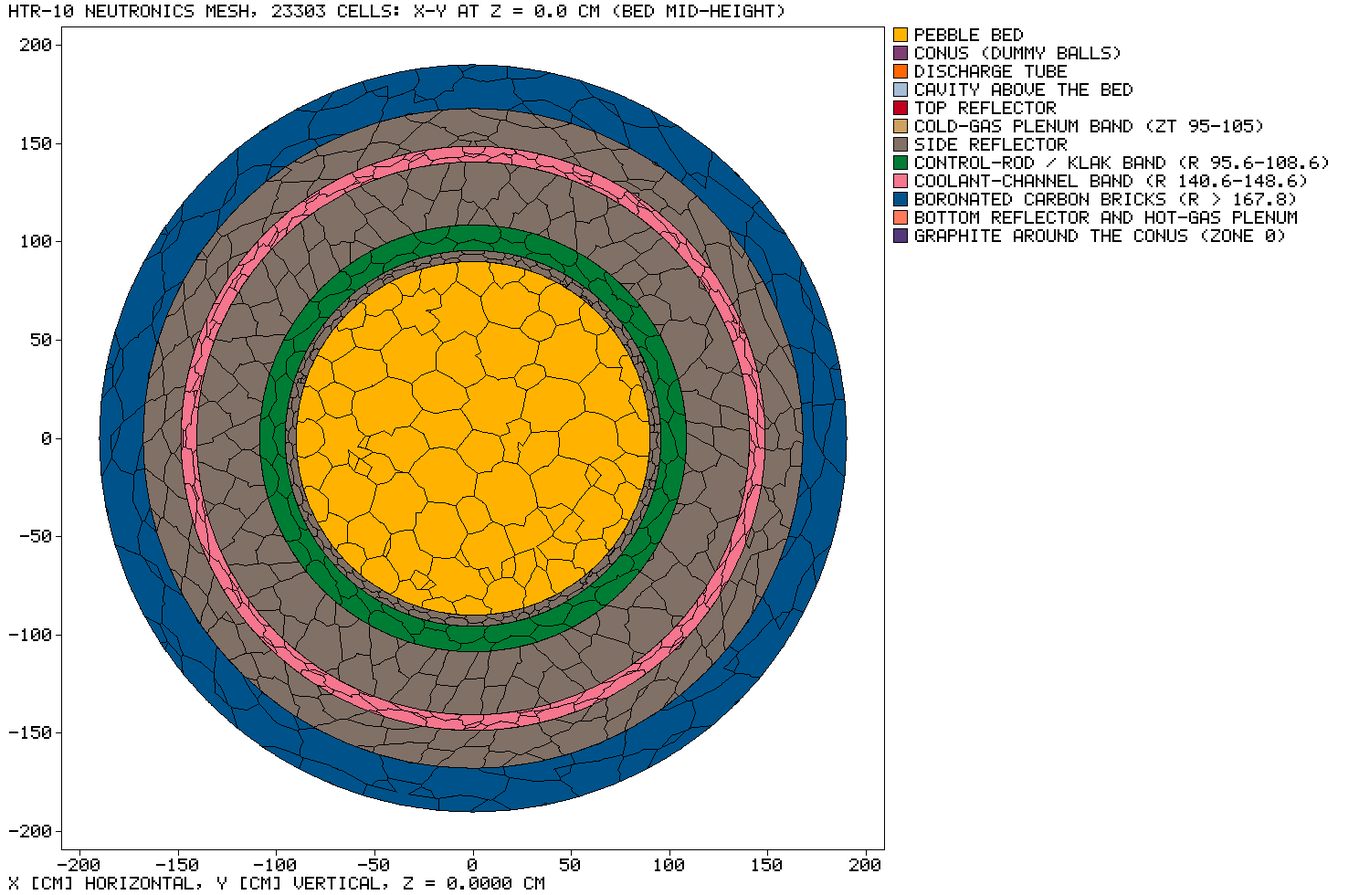
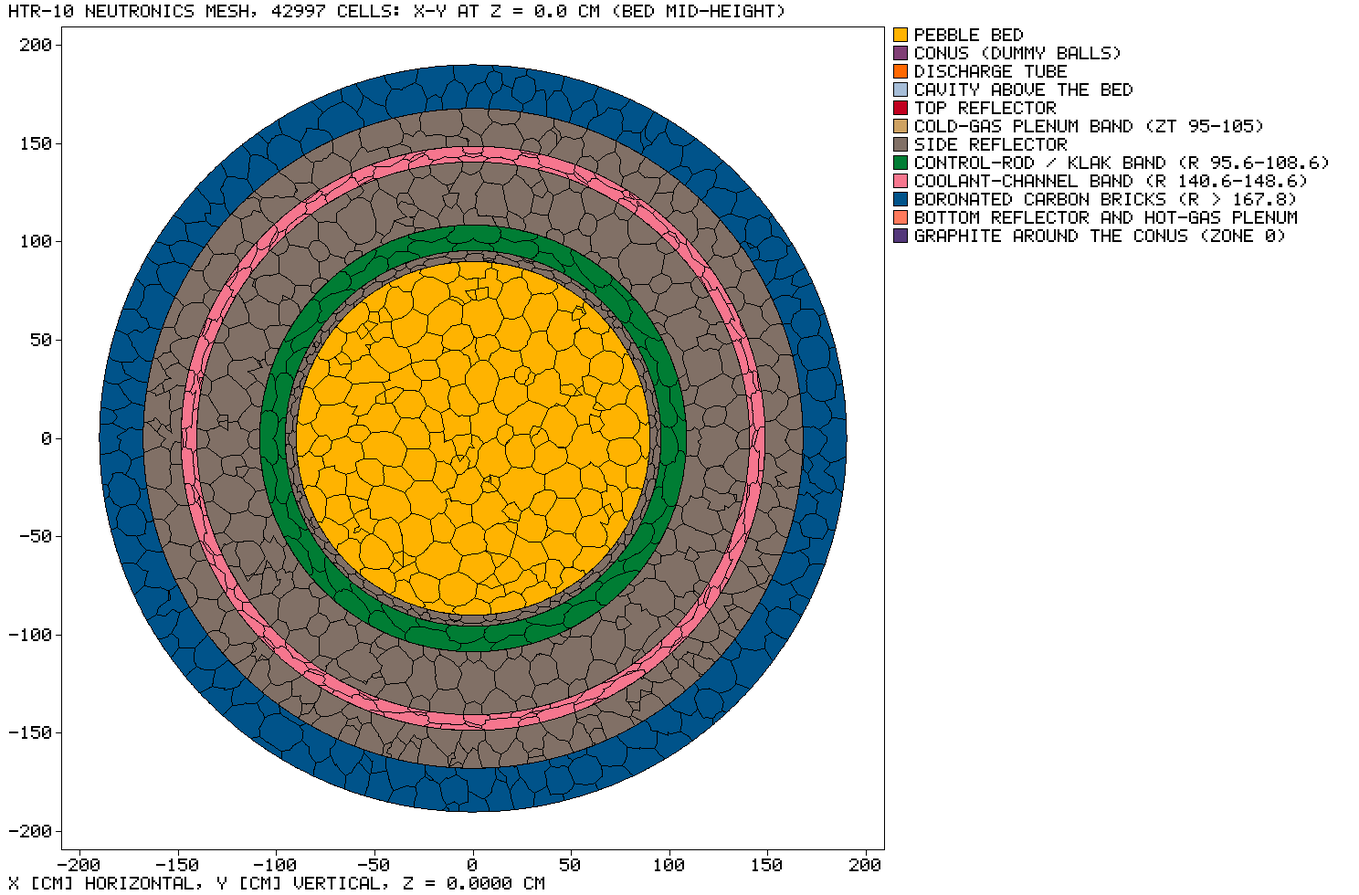
V&V Step 7: re-measured at the 20 cm neutronics default (gh:#1862)
Neutronics 42 997 cells, -0.02 % (worst region -0.14 %), 75.3 deg; run
1 m 52 s. AMI pairs at 20 cm: two flat pairs at round-off, curved mean
sums up to 1.0004, thin bands down to 0.9955; side areas within 2.0e-3.
30 cm values struck. Images, CSV and build notes replaced.

Claude-Session: https://claude.ai/code/session_01MuN674Wnq45CwGurhQFz6G

diff --git a/crates/dhoby-ghaut/verification_and_validation/workbench_steps_7_8/mesh_notes_ami_2026-11-27.md b/crates/dhoby-ghaut/verification_and_validation/workbench_steps_7_8/mesh_notes_ami_2026-11-27.md
@@ -1,89 +1,89 @@
 ## Neutronics
 
-- pebble_bed: TetGen tetrahedra with region attributes (1796 tetrahedra), each region dualled separately and stitched: 0 interface faces
-- pebble_bed: TetGen -pq1.414/3.5a0.0031819805153394634A
-- pebble_bed: snapped 556 surface points radially onto the true surface of revolution (32-facet input), after morphing 4049 points within 30.0 cm of a cylinder
-- pebble_bed: snapped 50 rim points (edges between two patches) onto their rings; split 0 rim chords to half a facet
-- pebble_bed: 442 cells
-- conus: TetGen tetrahedra with region attributes (1862 tetrahedra), each region dualled separately and stitched: 0 interface faces
-- conus: TetGen -pq1.414/3.5a0.0031819805153394634A
-- conus: snapped 1493 surface points radially onto the true surface of revolution (32-facet input), after morphing 0 points within 30.0 cm of a cylinder
+- pebble_bed: TetGen tetrahedra with region attributes (5970 tetrahedra), each region dualled separately and stitched: 0 interface faces
+- pebble_bed: TetGen -pq1.414/3.5a0.0009428090415820635A
+- pebble_bed: snapped 1034 surface points radially onto the true surface of revolution (32-facet input), after morphing 8525 points within 20.0 cm of a cylinder
+- pebble_bed: snapped 57 rim points (edges between two patches) onto their rings; split 0 rim chords to half a facet
+- pebble_bed: 1247 cells
+- conus: TetGen tetrahedra with region attributes (1986 tetrahedra), each region dualled separately and stitched: 0 interface faces
+- conus: TetGen -pq1.414/3.5a0.0009428090415820635A
+- conus: snapped 1458 surface points radially onto the true surface of revolution (32-facet input), after morphing 0 points within 20.0 cm of a cylinder
 - conus: snapped 43 rim points (edges between two patches) onto their rings; split 0 rim chords to half a facet
-- conus: 558 cells
-- discharge_tube: TetGen tetrahedra with region attributes (5978 tetrahedra), each region dualled separately and stitched: 0 interface faces
-- discharge_tube: TetGen -pq1.414/3.5a0.0031819805153394634A
-- discharge_tube: snapped 3102 surface points radially onto the true surface of revolution (32-facet input), after morphing 21516 points within 30.0 cm of a cylinder
+- conus: 587 cells
+- discharge_tube: TetGen tetrahedra with region attributes (6029 tetrahedra), each region dualled separately and stitched: 0 interface faces
+- discharge_tube: TetGen -pq1.414/3.5a0.0009428090415820635A
+- discharge_tube: snapped 3113 surface points radially onto the true surface of revolution (32-facet input), after morphing 21584 points within 20.0 cm of a cylinder
 - discharge_tube: snapped 26 rim points (edges between two patches) onto their rings; split 0 rim chords to half a facet
-- discharge_tube: 1575 cells
-- core_cavity: TetGen tetrahedra with region attributes (1486 tetrahedra), each region dualled separately and stitched: 0 interface faces
-- core_cavity: TetGen -pq1.414/3.5a0.0031819805153394634A
-- core_cavity: snapped 467 surface points radially onto the true surface of revolution (32-facet input), after morphing 3380 points within 30.0 cm of a cylinder
-- core_cavity: snapped 50 rim points (edges between two patches) onto their rings; split 0 rim chords to half a facet
-- core_cavity: 374 cells
-- top_reflector: TetGen tetrahedra with region attributes (4775 tetrahedra), each region dualled separately and stitched: 0 interface faces
-- top_reflector: TetGen -pq1.414/3.5a0.0031819805153394634A
-- top_reflector: snapped 1092 surface points radially onto the true surface of revolution (32-facet input), after morphing 9995 points within 30.0 cm of a cylinder
-- top_reflector: snapped 228 rim points (edges between two patches) onto their rings; split 0 rim chords to half a facet
-- top_reflector: 1249 cells
+- discharge_tube: 1571 cells
+- core_cavity: TetGen tetrahedra with region attributes (4751 tetrahedra), each region dualled separately and stitched: 0 interface faces
+- core_cavity: TetGen -pq1.414/3.5a0.0009428090415820635A
+- core_cavity: snapped 914 surface points radially onto the true surface of revolution (32-facet input), after morphing 7159 points within 20.0 cm of a cylinder
+- core_cavity: snapped 51 rim points (edges between two patches) onto their rings; split 0 rim chords to half a facet
+- core_cavity: 1040 cells
+- top_reflector: TetGen tetrahedra with region attributes (15982 tetrahedra), each region dualled separately and stitched: 0 interface faces
+- top_reflector: TetGen -pq1.414/3.5a0.0009428090415820635A
+- top_reflector: snapped 2641 surface points radially onto the true surface of revolution (32-facet input), after morphing 23180 points within 20.0 cm of a cylinder
+- top_reflector: snapped 274 rim points (edges between two patches) onto their rings; split 0 rim chords to half a facet
+- top_reflector: 3554 cells
 - cold_gas_plenum: TetGen tetrahedra with region attributes (2405 tetrahedra), each region dualled separately and stitched: 0 interface faces
-- cold_gas_plenum: TetGen -pq1.414/3.5a0.0031819805153394634A
-- cold_gas_plenum: snapped 218 surface points radially onto the true surface of revolution (32-facet input), after morphing 4020 points within 30.0 cm of a cylinder
+- cold_gas_plenum: TetGen -pq1.414/3.5a0.0009428090415820635A
+- cold_gas_plenum: snapped 218 surface points radially onto the true surface of revolution (32-facet input), after morphing 3079 points within 20.0 cm of a cylinder
 - cold_gas_plenum: snapped 414 rim points (edges between two patches) onto their rings; split 0 rim chords to half a facet
 - cold_gas_plenum: 818 cells
-- side_reflector: TetGen tetrahedra with region attributes (22513 tetrahedra), each region dualled separately and stitched: 0 interface faces
-- side_reflector: TetGen -pq1.414/3.5a0.0031819805153394634A
-- side_reflector: snapped 23971 surface points radially onto the true surface of revolution (32-facet input), after morphing 91727 points within 30.0 cm of a cylinder
-- side_reflector: snapped 617 rim points (edges between two patches) onto their rings; split 0 rim chords to half a facet
-- side_reflector: 7363 cells
-- control_rod_band: TetGen tetrahedra with region attributes (2688 tetrahedra), each region dualled separately and stitched: 0 interface faces
-- control_rod_band: TetGen -pq1.414/3.5a0.0031819805153394634A
-- control_rod_band: snapped 2198 surface points radially onto the true surface of revolution (32-facet input), after morphing 10174 points within 30.0 cm of a cylinder
+- side_reflector: TetGen tetrahedra with region attributes (38587 tetrahedra), each region dualled separately and stitched: 0 interface faces
+- side_reflector: TetGen -pq1.414/3.5a0.0009428090415820635A
+- side_reflector: snapped 36752 surface points radially onto the true surface of revolution (32-facet input), after morphing 156862 points within 20.0 cm of a cylinder
+- side_reflector: snapped 656 rim points (edges between two patches) onto their rings; split 0 rim chords to half a facet
+- side_reflector: 11712 cells
+- control_rod_band: TetGen tetrahedra with region attributes (3072 tetrahedra), each region dualled separately and stitched: 0 interface faces
+- control_rod_band: TetGen -pq1.414/3.5a0.0009428090415820635A
+- control_rod_band: snapped 2687 surface points radially onto the true surface of revolution (32-facet input), after morphing 11756 points within 20.0 cm of a cylinder
 - control_rod_band: snapped 32 rim points (edges between two patches) onto their rings; split 0 rim chords to half a facet
-- control_rod_band: 894 cells
-- coolant_band: TetGen tetrahedra with region attributes (7186 tetrahedra), each region dualled separately and stitched: 0 interface faces
-- coolant_band: TetGen -pq1.414/3.5a0.0031819805153394634A
-- coolant_band: snapped 7464 surface points radially onto the true surface of revolution (32-facet input), after morphing 30274 points within 30.0 cm of a cylinder
-- coolant_band: snapped 91 rim points (edges between two patches) onto their rings; split 0 rim chords to half a facet
-- coolant_band: 2406 cells
-- carbon_bricks: TetGen tetrahedra with region attributes (7112 tetrahedra), each region dualled separately and stitched: 0 interface faces
-- carbon_bricks: TetGen -pq1.414/3.5a0.0031819805153394634A
-- carbon_bricks: snapped 8974 surface points radially onto the true surface of revolution (32-facet input), after morphing 28516 points within 30.0 cm of a cylinder
-- carbon_bricks: snapped 252 rim points (edges between two patches) onto their rings; split 0 rim chords to half a facet
-- carbon_bricks: 2385 cells
-- bottom_structures: TetGen tetrahedra with region attributes (21512 tetrahedra), each region dualled separately and stitched: 0 interface faces
-- bottom_structures: TetGen -pq1.414/3.5a0.0031819805153394634A
-- bottom_structures: snapped 5446 surface points radially onto the true surface of revolution (32-facet input), after morphing 49393 points within 30.0 cm of a cylinder
-- bottom_structures: snapped 631 rim points (edges between two patches) onto their rings; split 0 rim chords to half a facet
-- bottom_structures: 4654 cells
-- conus_graphite: TetGen tetrahedra with region attributes (1679 tetrahedra), each region dualled separately and stitched: 0 interface faces
-- conus_graphite: TetGen -pq1.414/3.5a0.0031819805153394634A
-- conus_graphite: snapped 1735 surface points radially onto the true surface of revolution (32-facet input), after morphing 1944 points within 30.0 cm of a cylinder
+- control_rod_band: 1088 cells
+- coolant_band: TetGen tetrahedra with region attributes (7048 tetrahedra), each region dualled separately and stitched: 0 interface faces
+- coolant_band: TetGen -pq1.414/3.5a0.0009428090415820635A
+- coolant_band: snapped 7163 surface points radially onto the true surface of revolution (32-facet input), after morphing 29637 points within 20.0 cm of a cylinder
+- coolant_band: snapped 88 rim points (edges between two patches) onto their rings; split 0 rim chords to half a facet
+- coolant_band: 2365 cells
+- carbon_bricks: TetGen tetrahedra with region attributes (31799 tetrahedra), each region dualled separately and stitched: 0 interface faces
+- carbon_bricks: TetGen -pq1.414/3.5a0.0009428090415820635A
+- carbon_bricks: snapped 37567 surface points radially onto the true surface of revolution (32-facet input), after morphing 132511 points within 20.0 cm of a cylinder
+- carbon_bricks: snapped 387 rim points (edges between two patches) onto their rings; split 0 rim chords to half a facet
+- carbon_bricks: 9593 cells
+- bottom_structures: TetGen tetrahedra with region attributes (44393 tetrahedra), each region dualled separately and stitched: 0 interface faces
+- bottom_structures: TetGen -pq1.414/3.5a0.0009428090415820635A
+- bottom_structures: snapped 8550 surface points radially onto the true surface of revolution (32-facet input), after morphing 63168 points within 20.0 cm of a cylinder
+- bottom_structures: snapped 650 rim points (edges between two patches) onto their rings; split 0 rim chords to half a facet
+- bottom_structures: 8757 cells
+- conus_graphite: TetGen tetrahedra with region attributes (2010 tetrahedra), each region dualled separately and stitched: 0 interface faces
+- conus_graphite: TetGen -pq1.414/3.5a0.0009428090415820635A
+- conus_graphite: snapped 1819 surface points radially onto the true surface of revolution (32-facet input), after morphing 2359 points within 20.0 cm of a cylinder
 - conus_graphite: snapped 66 rim points (edges between two patches) onto their rings; split 0 rim chords to half a facet
-- conus_graphite: 585 cells
-- AMI pebble_bed_to_conus / conus_to_pebble_bed: areas 2.540604e0 / 2.540604e0 m², mismatch -6.66e-16; weight sums source 1.0000 / 1.000000 / 1.0000, target 1.0000 / 1.000000 / 1.0000 (min / mean / max)
-- AMI pebble_bed_to_core_cavity / core_cavity_to_pebble_bed: areas 2.540604e0 / 2.540604e0 m², mismatch -8.88e-16; weight sums source 1.0000 / 1.000000 / 1.0000, target 1.0000 / 1.000000 / 1.0000 (min / mean / max)
-- AMI pebble_bed_to_side_reflector / side_reflector_to_pebble_bed: areas 6.984754e0 / 6.987287e0 m², mismatch +3.63e-4; weight sums source 1.0001 / 1.000458 / 1.0010, target 0.9997 / 1.000089 / 1.0009 (min / mean / max)
-- AMI conus_to_discharge_tube / discharge_tube_to_conus: areas 1.960343e-1 / 1.960343e-1 m², mismatch +0.00e0; weight sums source 1.0000 / 1.000000 / 1.0000, target 1.0000 / 1.000000 / 1.0000 (min / mean / max)
-- AMI conus_to_conus_graphite / conus_graphite_to_conus: areas 2.697662e0 / 2.697603e0 m², mismatch -2.19e-5; weight sums source 0.9999 / 1.000069 / 1.0004, target 1.0000 / 1.000071 / 1.0003 (min / mean / max)
-- AMI discharge_tube_to_bottom_structures / bottom_structures_to_discharge_tube: areas 3.473538e0 / 3.473538e0 m², mismatch -1.10e-7; weight sums source 1.0000 / 1.000274 / 1.0009, target 1.0001 / 1.000274 / 1.0007 (min / mean / max)
-- AMI core_cavity_to_top_reflector / top_reflector_to_core_cavity: areas 2.540604e0 / 2.540604e0 m², mismatch +2.22e-16; weight sums source 1.0000 / 1.000000 / 1.0000, target 1.0000 / 1.000000 / 1.0000 (min / mean / max)
-- AMI core_cavity_to_side_reflector / side_reflector_to_core_cavity: areas 5.552880e0 / 5.554604e0 m², mismatch +3.11e-4; weight sums source 1.0001 / 1.000502 / 1.0011, target 0.9998 / 1.000167 / 1.0010 (min / mean / max)
-- AMI top_reflector_to_cold_gas_plenum / cold_gas_plenum_to_top_reflector: areas 1.030170e1 / 1.030912e1 m², mismatch +7.21e-4; weight sums source 0.9864 / 0.999392 / 1.0000, target 0.9672 / 0.998505 / 1.0000 (min / mean / max)
-- AMI top_reflector_to_side_reflector / side_reflector_to_top_reflector: areas 1.165844e1 / 1.166901e1 m², mismatch +9.06e-4; weight sums source 0.9999 / 1.000756 / 1.0238, target 0.9843 / 0.999882 / 1.0010 (min / mean / max)
-- AMI top_reflector_to_control_rod_band / control_rod_band_to_top_reflector: areas 8.326282e-1 / 8.326282e-1 m², mismatch +2.22e-16; weight sums source 1.0000 / 1.000000 / 1.0000, target 1.0000 / 1.000000 / 1.0000 (min / mean / max)
-- AMI top_reflector_to_carbon_bricks / carbon_bricks_to_top_reflector: areas 4.215859e0 / 4.215397e0 m², mismatch -1.10e-4; weight sums source 0.9999 / 1.000165 / 1.0006, target 0.9999 / 1.000302 / 1.0006 (min / mean / max)
-- AMI cold_gas_plenum_to_side_reflector / side_reflector_to_cold_gas_plenum: areas 3.766848e0 / 3.761928e0 m², mismatch -1.31e-3; weight sums source 0.9701 / 0.998440 / 1.0002, target 0.9871 / 0.999625 / 1.0002 (min / mean / max)
-- AMI cold_gas_plenum_to_coolant_band / coolant_band_to_cold_gas_plenum: areas 7.265470e-1 / 7.265933e-1 m², mismatch +6.38e-5; weight sums source 0.9919 / 0.999832 / 1.0000, target 0.9917 / 0.999597 / 1.0000 (min / mean / max)
-- AMI side_reflector_to_control_rod_band / control_rod_band_to_side_reflector: areas 3.319031e1 / 3.318492e1 m², mismatch -1.62e-4; weight sums source 0.9996 / 1.000099 / 1.0012, target 0.9999 / 1.000363 / 1.0010 (min / mean / max)
-- AMI side_reflector_to_coolant_band / coolant_band_to_side_reflector: areas 5.154176e1 / 5.155383e1 m², mismatch +2.34e-4; weight sums source 0.9999 / 1.000392 / 1.0012, target 0.9996 / 1.000145 / 1.0010 (min / mean / max)
-- AMI side_reflector_to_carbon_bricks / carbon_bricks_to_side_reflector: areas 3.675632e1 / 3.675400e1 m², mismatch -6.30e-5; weight sums source 0.9999 / 1.000313 / 1.0010, target 0.9999 / 1.000383 / 1.0011 (min / mean / max)
-- AMI side_reflector_to_bottom_structures / bottom_structures_to_side_reflector: areas 4.733698e0 / 4.739331e0 m², mismatch +1.19e-3; weight sums source 0.9855 / 0.998735 / 1.0000, target 0.9685 / 0.997300 / 1.0000 (min / mean / max)
-- AMI side_reflector_to_conus_graphite / conus_graphite_to_side_reflector: areas 2.089002e0 / 2.088287e0 m², mismatch -3.42e-4; weight sums source 0.9998 / 1.000051 / 1.0006, target 1.0002 / 1.000403 / 1.0007 (min / mean / max)
-- AMI control_rod_band_to_bottom_structures / bottom_structures_to_control_rod_band: areas 8.326282e-1 / 8.305652e-1 m², mismatch -2.48e-3; weight sums source 0.9864 / 0.995522 / 1.0000, target 0.9854 / 0.998179 / 1.0000 (min / mean / max)
-- AMI coolant_band_to_bottom_structures / bottom_structures_to_coolant_band: areas 7.266465e-1 / 7.265470e-1 m², mismatch -1.37e-4; weight sums source 0.9917 / 0.999116 / 1.0000, target 0.9906 / 0.999528 / 1.0000 (min / mean / max)
-- AMI carbon_bricks_to_bottom_structures / bottom_structures_to_carbon_bricks: areas 2.332042e1 / 2.331844e1 m², mismatch -8.50e-5; weight sums source 0.9999 / 1.000119 / 1.0009, target 0.9997 / 1.000175 / 1.0009 (min / mean / max)
-- AMI bottom_structures_to_conus_graphite / conus_graphite_to_bottom_structures: areas 2.347634e0 / 2.344570e0 m², mismatch -1.31e-3; weight sums source 0.9746 / 0.998089 / 1.0000, target 1.0000 / 1.000000 / 1.0000 (min / mean / max)
-- quality by place: 0 cells on a region interface, max non-orthogonality 0.0 deg, max skewness 0.00; the other 23303 cells 74.5 deg, 1.62. Worst non-orthogonality at r 86.2, z -62.3 cm; worst skewness at r 94.4, z -21.9 cm
+- conus_graphite: 665 cells
+- AMI pebble_bed_to_conus / conus_to_pebble_bed: areas 2.540987e0 / 2.540604e0 m², mismatch -1.51e-4; weight sums source 0.9817 / 0.999688 / 1.0000, target 1.0000 / 1.000000 / 1.0000 (min / mean / max)
+- AMI pebble_bed_to_core_cavity / core_cavity_to_pebble_bed: areas 2.540987e0 / 2.540796e0 m², mismatch -7.54e-5; weight sums source 0.9825 / 0.999736 / 1.0000, target 0.9835 / 0.999910 / 1.0000 (min / mean / max)
+- AMI pebble_bed_to_side_reflector / side_reflector_to_pebble_bed: areas 6.985148e0 / 6.987287e0 m², mismatch +3.06e-4; weight sums source 1.0000 / 1.000375 / 1.0012, target 0.9996 / 1.000082 / 1.0010 (min / mean / max)
+- AMI conus_to_discharge_tube / discharge_tube_to_conus: areas 1.960343e-1 / 1.960343e-1 m², mismatch -4.44e-16; weight sums source 1.0000 / 1.000000 / 1.0000, target 1.0000 / 1.000000 / 1.0000 (min / mean / max)
+- AMI conus_to_conus_graphite / conus_graphite_to_conus: areas 2.697662e0 / 2.697607e0 m², mismatch -2.03e-5; weight sums source 1.0000 / 1.000068 / 1.0004, target 1.0000 / 1.000074 / 1.0003 (min / mean / max)
+- AMI discharge_tube_to_bottom_structures / bottom_structures_to_discharge_tube: areas 3.473538e0 / 3.473538e0 m², mismatch -1.10e-7; weight sums source 1.0000 / 1.000274 / 1.0011, target 1.0000 / 1.000275 / 1.0010 (min / mean / max)
+- AMI core_cavity_to_top_reflector / top_reflector_to_core_cavity: areas 2.540796e0 / 2.540604e0 m², mismatch -7.54e-5; weight sums source 0.9824 / 0.999852 / 1.0000, target 1.0000 / 1.000000 / 1.0000 (min / mean / max)
+- AMI core_cavity_to_side_reflector / side_reflector_to_core_cavity: areas 5.553110e0 / 5.554510e0 m², mismatch +2.52e-4; weight sums source 1.0000 / 1.000396 / 1.0008, target 0.9996 / 1.000123 / 1.0008 (min / mean / max)
+- AMI top_reflector_to_cold_gas_plenum / cold_gas_plenum_to_top_reflector: areas 1.030770e1 / 1.030912e1 m², mismatch +1.38e-4; weight sums source 0.9863 / 0.999697 / 1.0000, target 0.9839 / 0.999216 / 1.0000 (min / mean / max)
+- AMI top_reflector_to_side_reflector / side_reflector_to_top_reflector: areas 1.166104e1 / 1.166211e1 m², mismatch +9.19e-5; weight sums source 0.9906 / 1.000168 / 1.0008, target 0.9996 / 1.000095 / 1.0008 (min / mean / max)
+- AMI top_reflector_to_control_rod_band / control_rod_band_to_top_reflector: areas 8.326282e-1 / 8.326282e-1 m², mismatch +1.11e-15; weight sums source 1.0000 / 1.000000 / 1.0000, target 1.0000 / 1.000000 / 1.0000 (min / mean / max)
+- AMI top_reflector_to_carbon_bricks / carbon_bricks_to_top_reflector: areas 4.216687e0 / 4.216757e0 m², mismatch +1.67e-5; weight sums source 1.0000 / 1.000082 / 1.0003, target 0.9999 / 1.000068 / 1.0003 (min / mean / max)
+- AMI cold_gas_plenum_to_side_reflector / side_reflector_to_cold_gas_plenum: areas 3.766848e0 / 3.765864e0 m², mismatch -2.61e-4; weight sums source 0.9771 / 0.999740 / 1.0002, target 0.9864 / 0.999891 / 1.0002 (min / mean / max)
+- AMI cold_gas_plenum_to_coolant_band / coolant_band_to_cold_gas_plenum: areas 7.265470e-1 / 7.265641e-1 m², mismatch +2.35e-5; weight sums source 0.9917 / 0.999787 / 1.0000, target 0.9917 / 0.999602 / 1.0000 (min / mean / max)
+- AMI side_reflector_to_control_rod_band / control_rod_band_to_side_reflector: areas 3.319357e1 / 3.318532e1 m², mismatch -2.48e-4; weight sums source 0.9995 / 1.000097 / 1.0010, target 1.0000 / 1.000402 / 1.0011 (min / mean / max)
+- AMI side_reflector_to_coolant_band / coolant_band_to_side_reflector: areas 5.155540e1 / 5.155371e1 m², mismatch -3.28e-5; weight sums source 0.9999 / 1.000105 / 1.0009, target 0.9998 / 1.000115 / 1.0009 (min / mean / max)
+- AMI side_reflector_to_carbon_bricks / carbon_bricks_to_side_reflector: areas 3.676654e1 / 3.676644e1 m², mismatch -2.60e-6; weight sums source 1.0000 / 1.000070 / 1.0004, target 0.9999 / 1.000074 / 1.0004 (min / mean / max)
+- AMI side_reflector_to_bottom_structures / bottom_structures_to_side_reflector: areas 4.738506e0 / 4.740211e0 m², mismatch +3.60e-4; weight sums source 0.9856 / 0.999869 / 1.0000, target 0.9725 / 0.999666 / 1.0000 (min / mean / max)
+- AMI side_reflector_to_conus_graphite / conus_graphite_to_side_reflector: areas 2.088995e0 / 2.088304e0 m², mismatch -3.31e-4; weight sums source 0.9997 / 1.000058 / 1.0006, target 1.0001 / 1.000397 / 1.0007 (min / mean / max)
+- AMI control_rod_band_to_bottom_structures / bottom_structures_to_control_rod_band: areas 8.326282e-1 / 8.309834e-1 m², mismatch -1.98e-3; weight sums source 0.9863 / 0.995497 / 1.0000, target 0.9854 / 0.997698 / 1.0000 (min / mean / max)
+- AMI coolant_band_to_bottom_structures / bottom_structures_to_coolant_band: areas 7.266586e-1 / 7.265797e-1 m², mismatch -1.09e-4; weight sums source 0.9917 / 0.999447 / 1.0000, target 0.9901 / 0.999726 / 1.0000 (min / mean / max)
+- AMI carbon_bricks_to_bottom_structures / bottom_structures_to_carbon_bricks: areas 2.332266e1 / 2.332195e1 m², mismatch -3.05e-5; weight sums source 0.9999 / 1.000060 / 1.0003, target 1.0000 / 1.000089 / 1.0003 (min / mean / max)
+- AMI bottom_structures_to_conus_graphite / conus_graphite_to_bottom_structures: areas 2.347634e0 / 2.344570e0 m², mismatch -1.31e-3; weight sums source 0.9785 / 0.998155 / 1.0000, target 1.0000 / 1.000000 / 1.0000 (min / mean / max)
+- quality by place: 0 cells on a region interface, max non-orthogonality 0.0 deg, max skewness 0.00; the other 42997 cells 75.3 deg, 2.11. Worst non-orthogonality at r 27.4, z -98.4 cm; worst skewness at r 173.7, z -11.4 cm
 
 ## Thermal-hydraulics
 

diff --git a/crates/dhoby-ghaut/verification_and_validation/workbench_steps_7_8/README.md b/crates/dhoby-ghaut/verification_and_validation/workbench_steps_7_8/README.md
@@ -111,12 +111,13 @@ a mesh was a face. Now:
   25 cm, cause not found (`diagnose_th_cavity_volume_at_25_cm`); that is
   one reason it is not the default.
 
-Default sizes (30 / 15 / 25 cm, 32 segments), built from `b73f1ad43`; whole
-run 56 s (it was 2 m 34 s).
+Default sizes (~~30~~ **20** / 15 / 25 cm, 32 segments; the neutronics
+default moved to 20 cm on 2026-11-27, maintainer, on the Step 10 mesh study),
+built from `418706d13`; whole run 1 m 52 s (2 m 34 s on 2026-11-26).
 
 | mesh | cells | volume vs exact | worst region | non-star cells | max non-orth |
 |---|---|---|---|---|---|
-| neutronics (12 regions, per region + AMI) | 23 303 polyhedra | **−0.10 %** | `conus_graphite` −0.14 % | 4 020 | 74.5° |
+| neutronics (12 regions, per region + AMI, 20 cm) | ~~23 303~~ 42 997 polyhedra | ~~−0.10 %~~ **−0.02 %** | `conus_graphite` −0.14 % | 6 310 | 75.3° |
 | thermal-hydraulics (bed + cavity, cavity layered) | 6 423 | **−0.06 %** | `core_cavity` −0.08 % | 275 | **58.1°** |
 | structural (conforming Tet4) | 131 265 | **−0.13 %** | `control_rod_band` −0.63 % | 0 | 83.6° |
 
@@ -131,21 +132,25 @@ the 30 cm neutronics mesh (2026-10-05), is −0.04 %.
 the notes give both side areas and the AMI weight sums
 (`mesh_notes_ami_2026-11-27.md`):
 
+Numbers at the 20 cm default; ~~struck~~ values are the 30 cm run.
+
 - **Flat pairs** whose rims match on both sides: sums 1 to round-off, areas
-  equal to 1e-15. Four of them, plus the TH bed/cavity pair (whose cavity
-  side carries the layer columns' rim: source min 0.972, mean 0.99964).
-- **Curved pairs** (cylinders): mean sums 1.00005 to 1.0012. Over all
-  pairs the two side areas differ by at most 2.5e-3. Predicted before measuring: an excess over 1 of about
-  π²/(6N²), from the projection along the bisector that upstream uses (the
-  port's own cylinder test confirms the model). I estimated N from the cell
-  size, about 19 around r = 0.9 m, and predicted 2–5e-3; the measured excess
-  is about 5× smaller, because the snapped dual faces are finer than the
-  cell size.
+  equal to 1e-15. Two of them (~~four~~), plus the TH bed/cavity pair
+  (whose cavity side carries the layer columns' rim: source min 0.972,
+  mean 0.99964).
+- **Curved pairs** (cylinders): mean sums up to 1.0004 (~~1.0012~~). Over
+  all pairs the two side areas differ by at most 2.0e-3 (~~2.5e-3~~).
+  Predicted before measuring: an excess over 1 of about π²/(6N²), from the
+  projection along the bisector that upstream uses (the port's own cylinder
+  test confirms the model). I estimated N from the cell size, about 19
+  around r = 0.9 m at 30 cm, and predicted 2–5e-3; the measured excess was
+  about 5× smaller, because the snapped dual faces are finer than the cell
+  size.
 - **Thin flat bands** (the cold-gas plenum, the coolant and control-rod
-  bands against their neighbours): mean sums down to 0.9899, single faces
-  down to 0.966. Not predicted. Probably TetGen splitting the rim rings at
-  different angles on the two sides, so the rims do not line up; not
-  checked.
+  bands against their neighbours): mean sums down to 0.9955 (~~0.9899~~),
+  single faces down to 0.977 (~~0.966~~). Not predicted. Probably TetGen
+  splitting the rim rings at different angles on the two sides, so the
+  rims do not line up; not checked.
 
 **The map gate moved, with the maintainer's agreement.** The test maps a
 power density neutronics → TH and compares integrals. Its bound ~~1e-4~~ is
